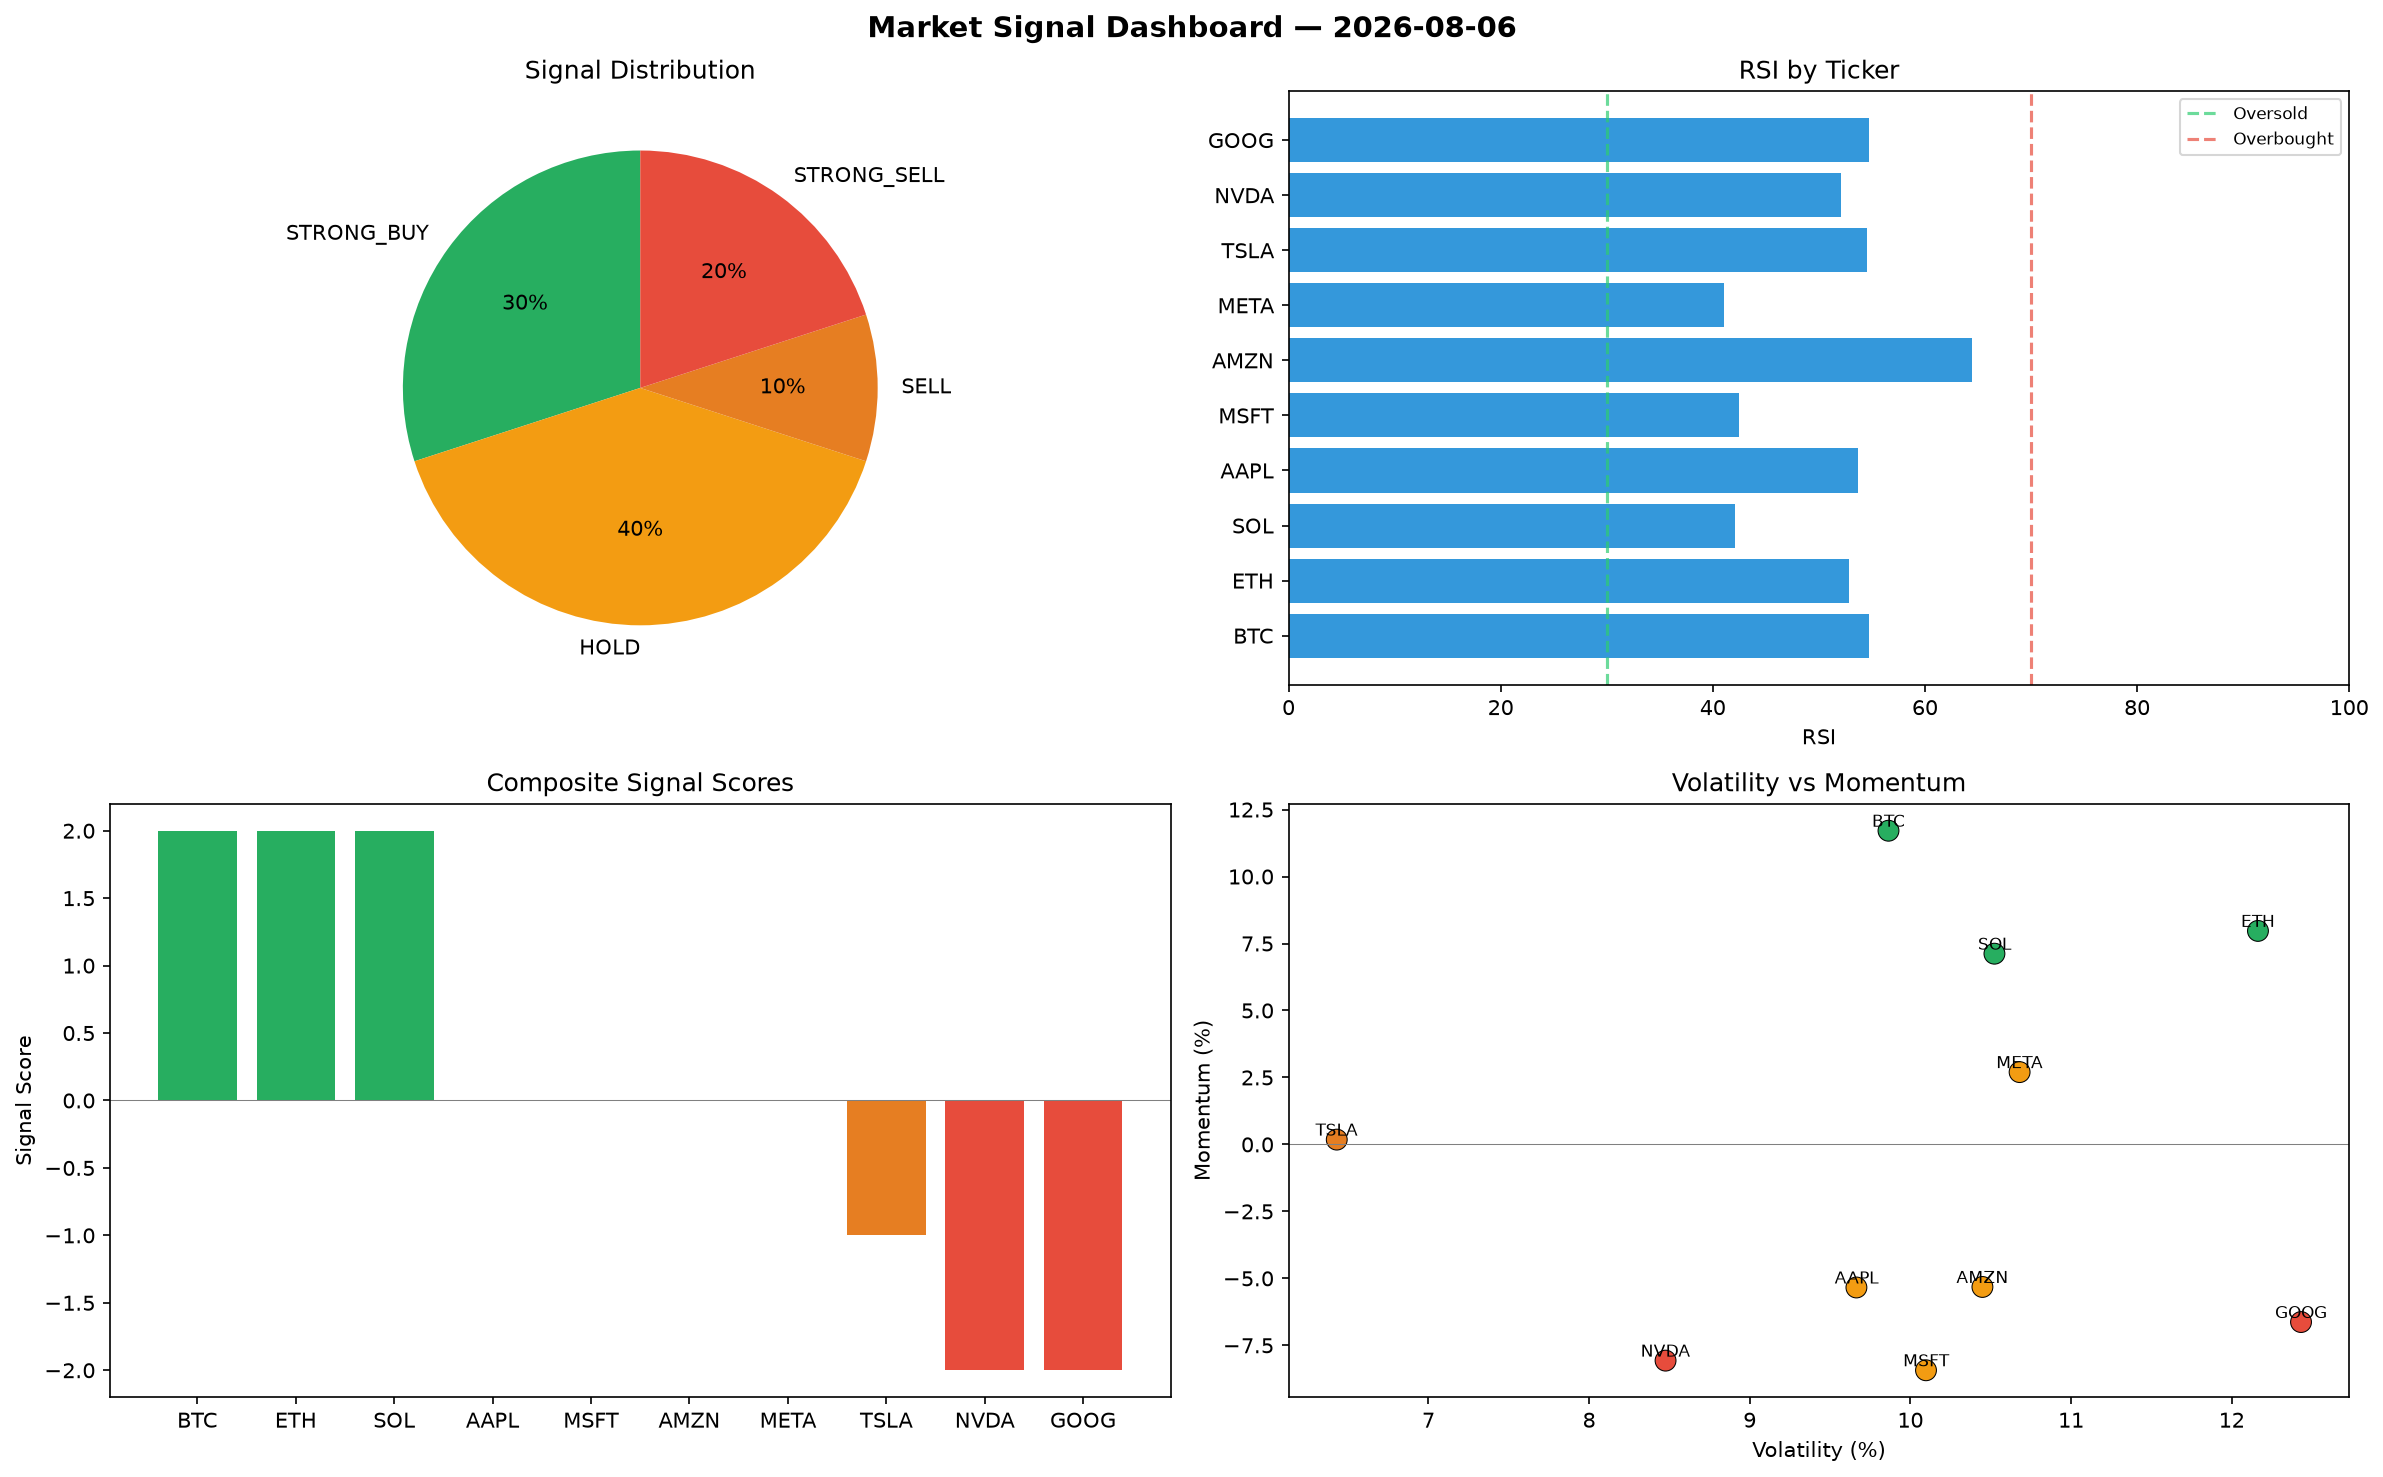
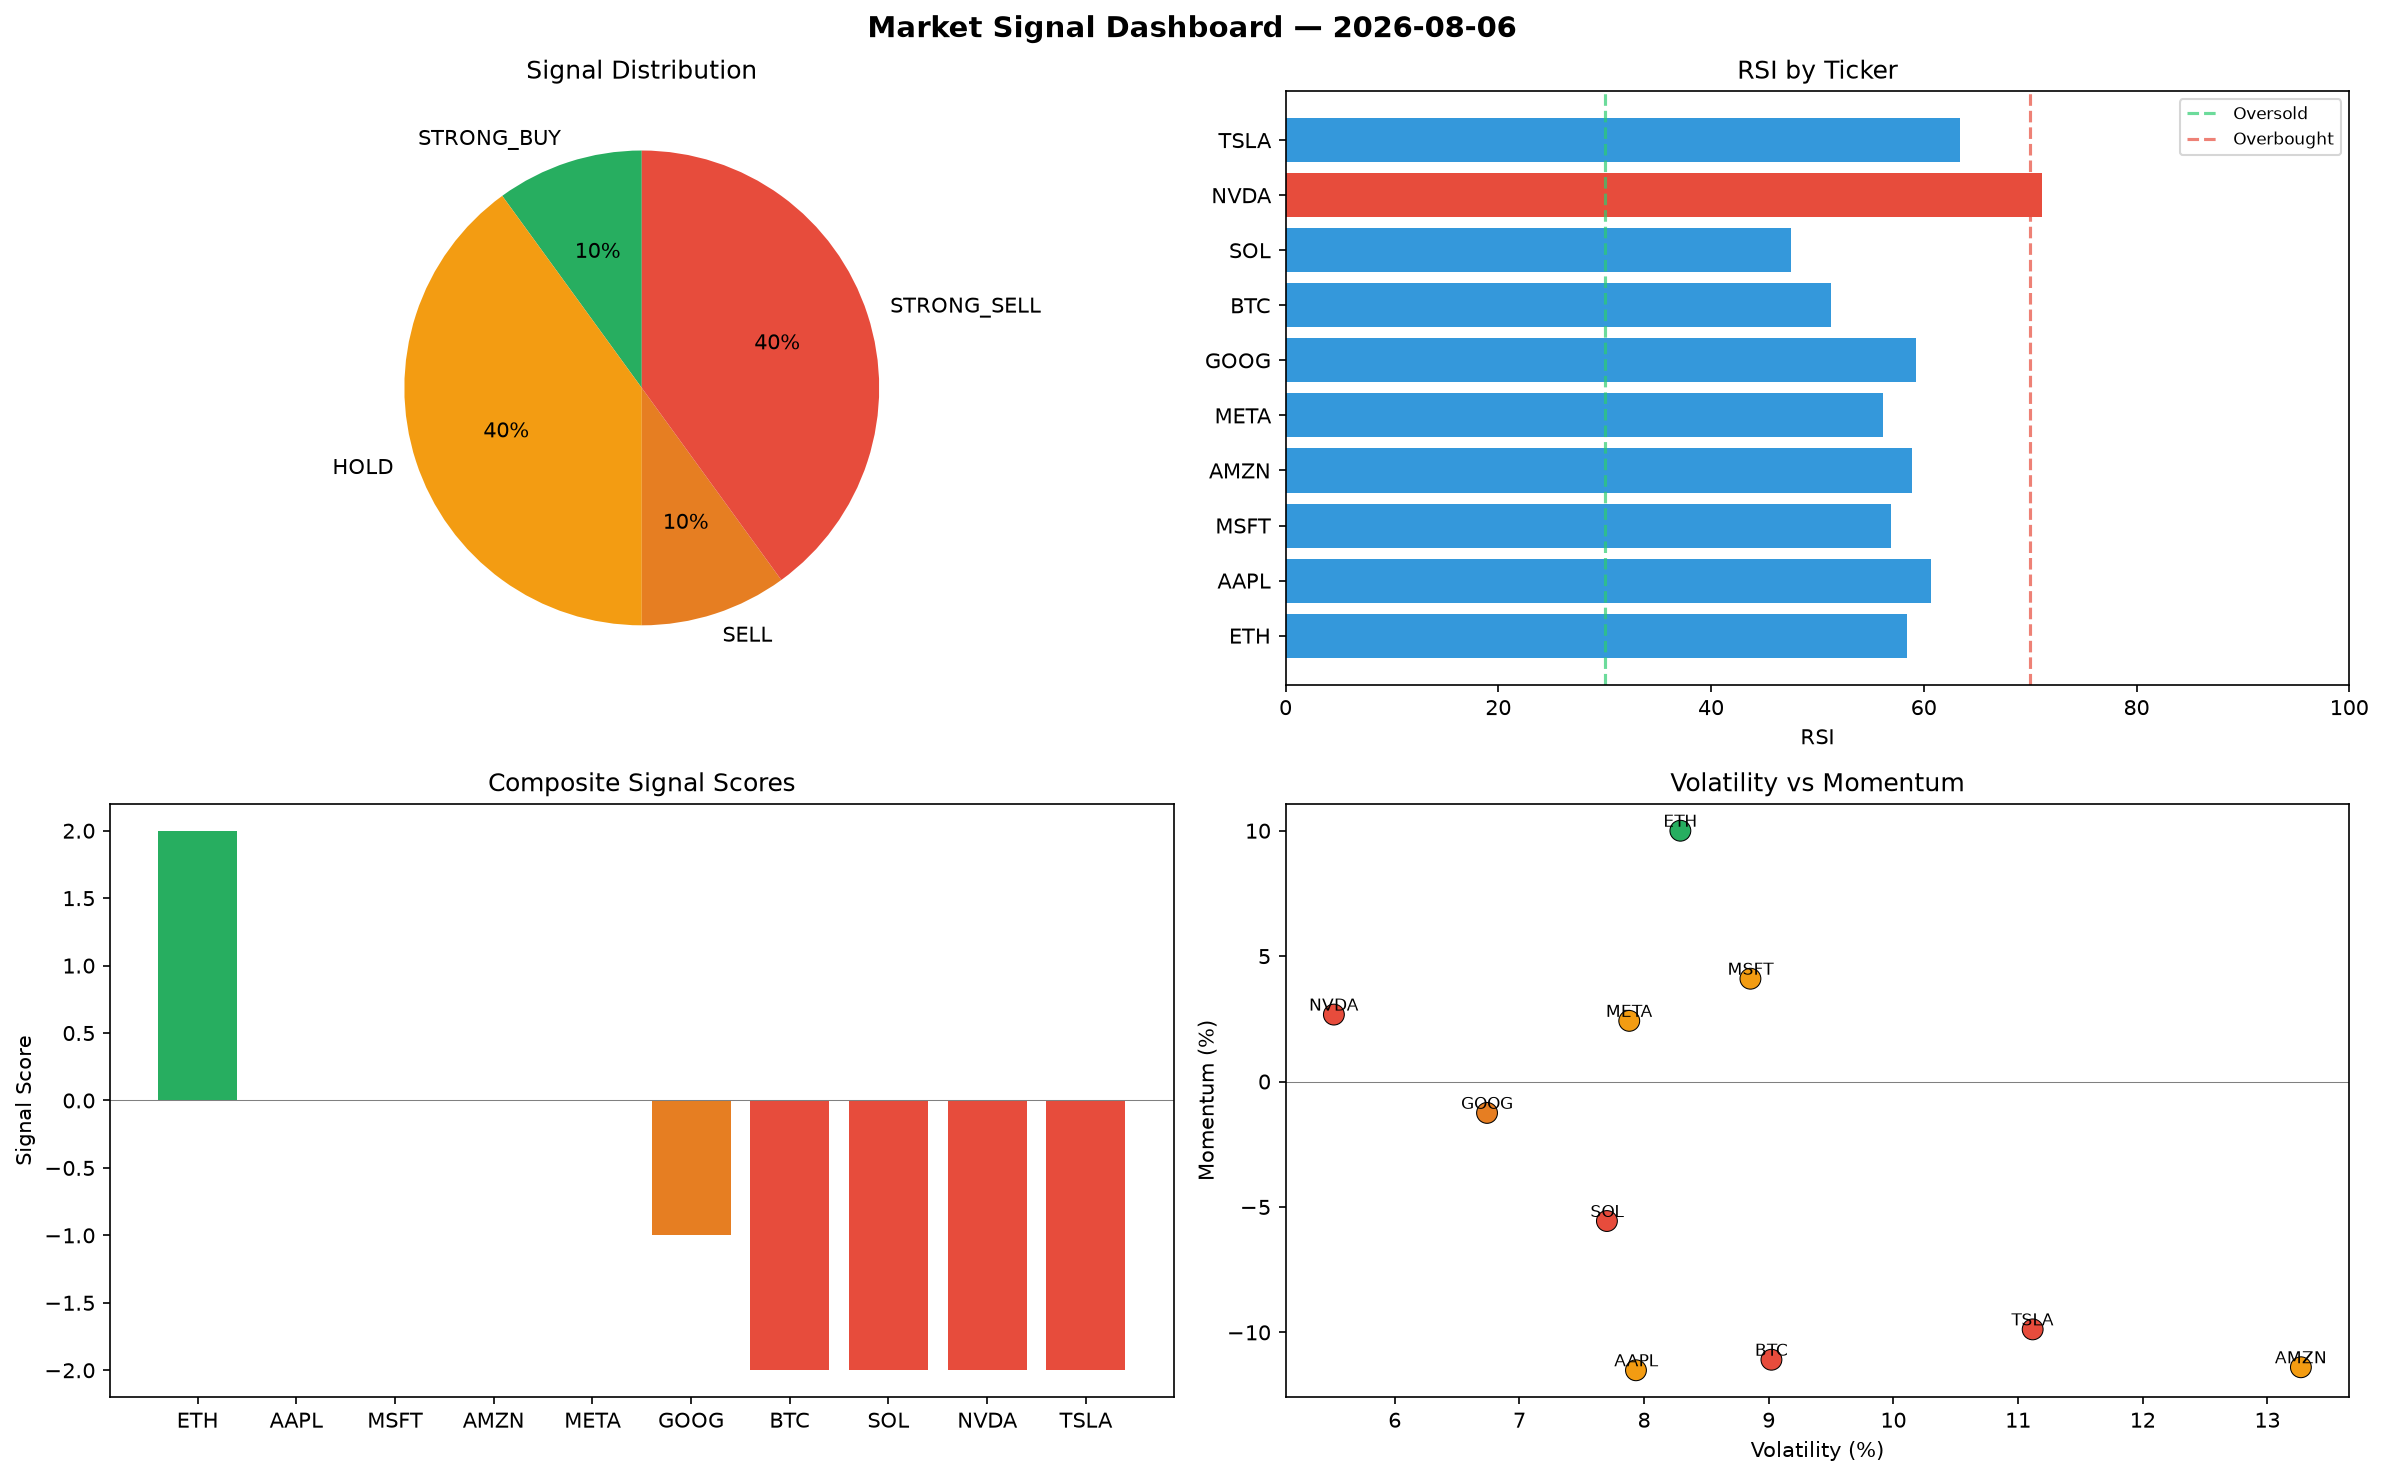
automated-bots: market signals 2026-08-06T10:58

diff --git a/logs/2026-08-06.md b/logs/2026-08-06.md
@@ -1,6 +1,6 @@
 # Market Signal Report — 2026-08-06
 
-**Run ID:** `56a09d5045` | **Buy:** 3 | **Sell:** 3 | **Hold:** 4
+**Run ID:** `1c75e4cf1d` | **Buy:** 1 | **Sell:** 5 | **Hold:** 4
 
 ![Dashboard](2026-08-06_dashboard.png)
 
@@ -8,28 +8,28 @@
 
 | Ticker | Price | Signal | Score | RSI | Momentum | Confidence |
 |--------|-------|--------|-------|-----|----------|------------|
-| BTC | $3257.57 | **STRONG_BUY** | 2 | 54.7 | 0.1171 | 0.5 |
-| ETH | $1266.19 | **STRONG_BUY** | 2 | 52.85 | 0.0797 | 0.5 |
-| SOL | $4326.48 | **STRONG_BUY** | 2 | 42.07 | 0.0712 | 0.5 |
-| AAPL | $3095.13 | **HOLD** | 0 | 53.66 | -0.0534 | 0.0 |
-| MSFT | $3328.44 | **HOLD** | 0 | 42.43 | -0.0843 | 0.0 |
-| AMZN | $4706.57 | **HOLD** | 0 | 64.44 | -0.0532 | 0.0 |
-| META | $4479.33 | **HOLD** | 0 | 41.04 | 0.027 | 0.0 |
-| TSLA | $1803.5 | **SELL** | -1 | 54.58 | 0.0018 | 0.25 |
-| NVDA | $1802.72 | **STRONG_SELL** | -2 | 52.04 | -0.0807 | 0.5 |
-| GOOG | $964.98 | **STRONG_SELL** | -2 | 54.75 | -0.0663 | 0.5 |
+| ETH | $1451.52 | **STRONG_BUY** | 2 | 58.44 | 0.1 | 0.5 |
+| AAPL | $1512.26 | **HOLD** | 0 | 60.68 | -0.1151 | 0.0 |
+| MSFT | $4648.87 | **HOLD** | 0 | 56.91 | 0.041 | 0.0 |
+| AMZN | $2432.64 | **HOLD** | 0 | 58.92 | -0.1139 | 0.0 |
+| META | $1065.21 | **HOLD** | 0 | 56.13 | 0.0242 | 0.0 |
+| GOOG | $4514.03 | **SELL** | -1 | 59.28 | -0.0125 | 0.25 |
+| BTC | $3424.96 | **STRONG_SELL** | -2 | 51.29 | -0.1109 | 0.5 |
+| SOL | $4564.21 | **STRONG_SELL** | -2 | 47.49 | -0.0556 | 0.5 |
+| NVDA | $3759.27 | **STRONG_SELL** | -2 | 71.13 | 0.0267 | 0.5 |
+| TSLA | $3368.23 | **STRONG_SELL** | -2 | 63.45 | -0.0988 | 0.5 |
 
 ## Delta vs Yesterday
 
 | Ticker | Today | Yesterday | Price Change | Signal Changed |
 |--------|-------|-----------|-------------|----------------|
-| BTC | STRONG_BUY | BUY | 📉 -13.34% | ⚠ YES |
-| ETH | STRONG_BUY | STRONG_SELL | 📉 -2.17% | ⚠ YES |
-| SOL | STRONG_BUY | BUY | 📈 218.61% | ⚠ YES |
-| AAPL | HOLD | STRONG_SELL | 📈 1946.64% | ⚠ YES |
-| MSFT | HOLD | BUY | 📉 -1.89% | ⚠ YES |
-| AMZN | HOLD | SELL | 📈 47.36% | ⚠ YES |
-| META | HOLD | HOLD | 📈 42.21% | — |
-| TSLA | SELL | STRONG_BUY | 📉 -44.5% | ⚠ YES |
-| NVDA | STRONG_SELL | BUY | 📈 35.0% | ⚠ YES |
-| GOOG | STRONG_SELL | STRONG_SELL | 📉 -58.07% | — |
+| ETH | STRONG_BUY | STRONG_SELL | 📈 12.14% | ⚠ YES |
+| AAPL | HOLD | STRONG_SELL | 📈 899.97% | ⚠ YES |
+| MSFT | HOLD | BUY | 📈 37.04% | ⚠ YES |
+| AMZN | HOLD | SELL | 📉 -23.84% | ⚠ YES |
+| META | HOLD | HOLD | 📉 -66.18% | — |
+| GOOG | SELL | STRONG_SELL | 📈 96.14% | ⚠ YES |
+| BTC | STRONG_SELL | BUY | 📉 -8.89% | ⚠ YES |
+| SOL | STRONG_SELL | BUY | 📈 236.12% | ⚠ YES |
+| NVDA | STRONG_SELL | BUY | 📈 181.53% | ⚠ YES |
+| TSLA | STRONG_SELL | STRONG_BUY | 📈 3.65% | ⚠ YES |
